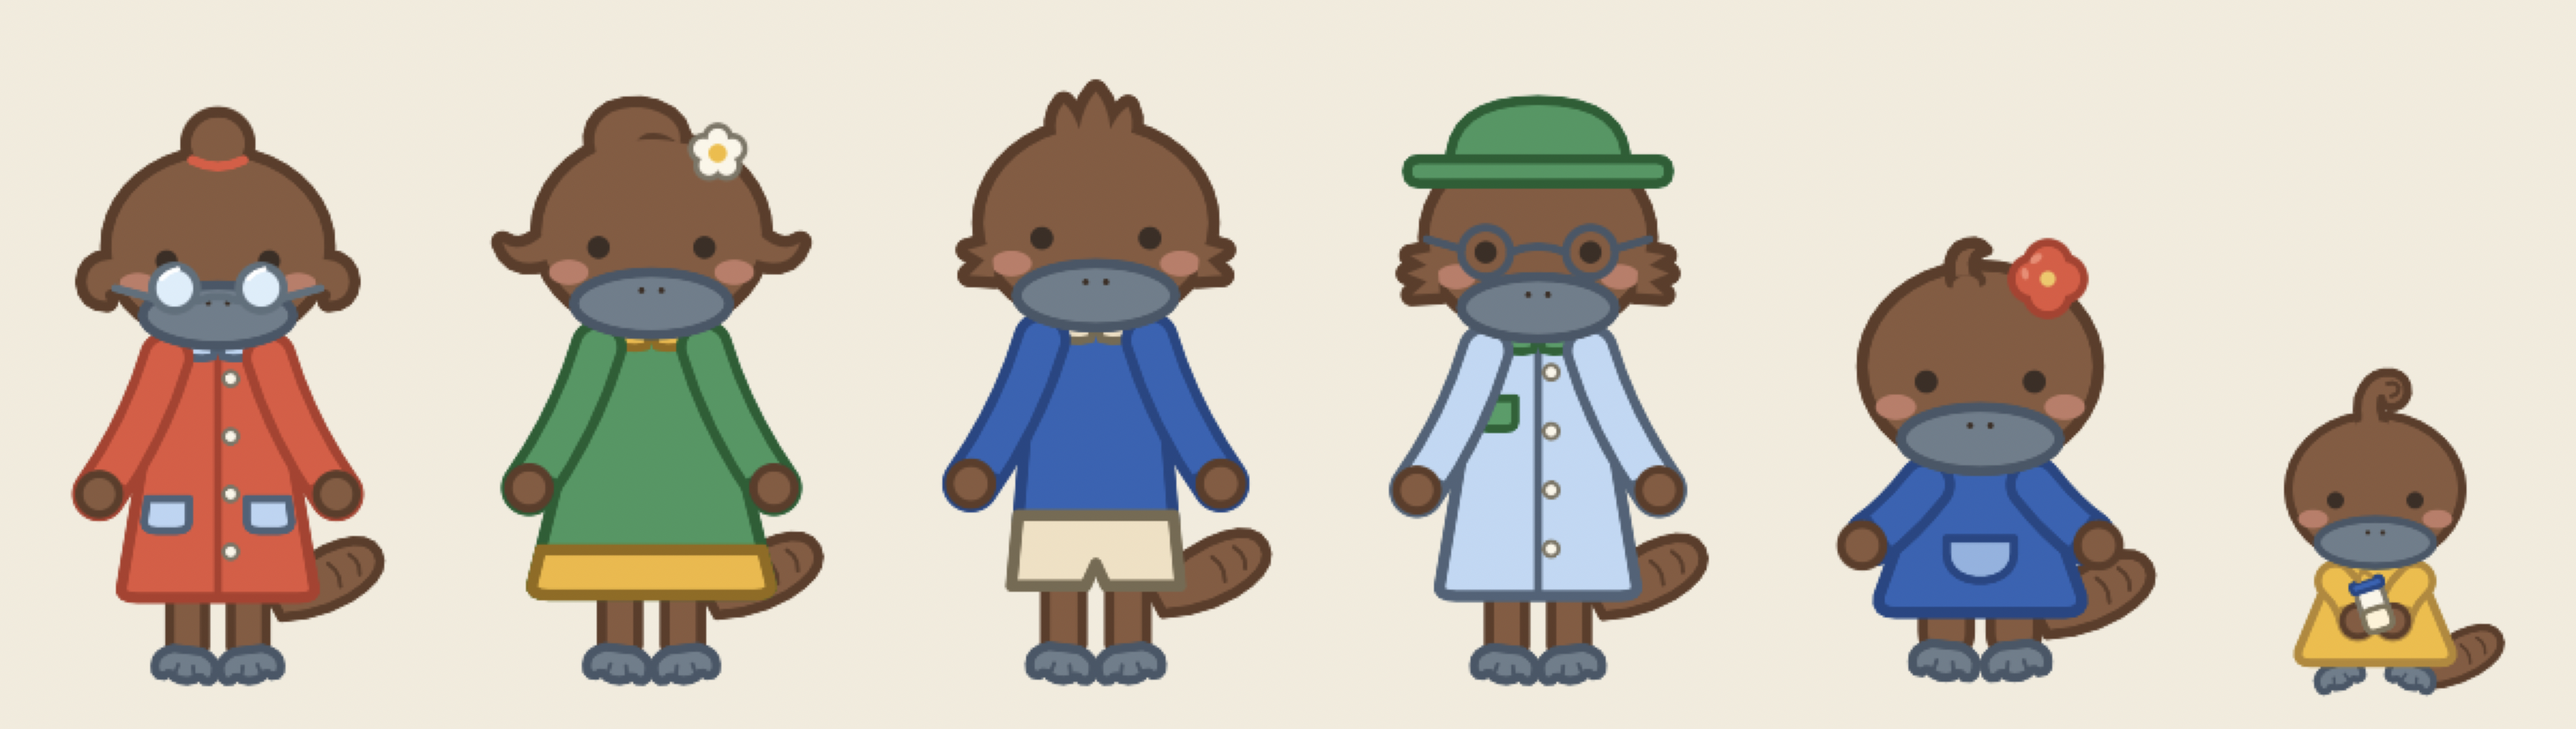
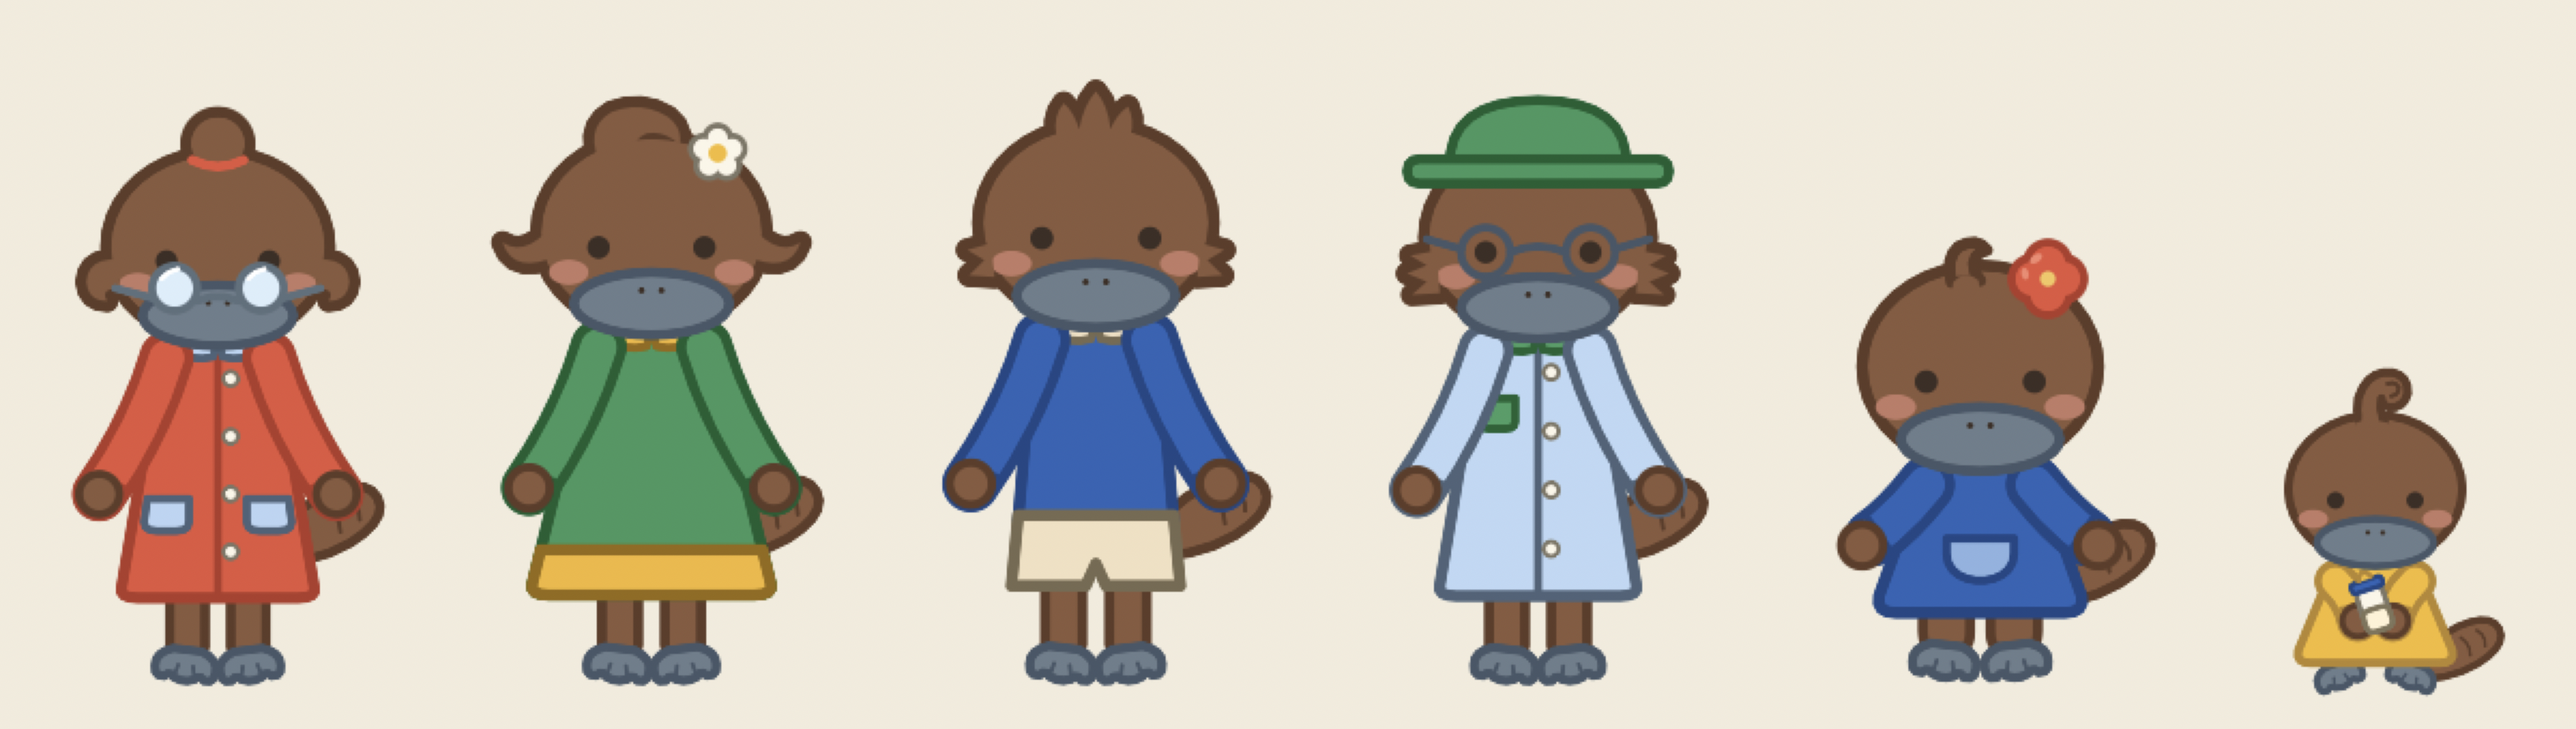
Platypus tails: raised to the hip

diff --git a/app/tools/make_cast_rigs.py b/app/tools/make_cast_rigs.py
@@ -822,12 +822,14 @@ def paddle(bx, by, angle=-28.0, long=66.0):
     ridges = f'M{at(38 * k, -8)} Q{at(42 * k, 0)} {at(38 * k, 8)} M{at(51 * k, -7)} Q{at(55 * k, 0)} {at(51 * k, 7)}'
     return outline, ridges
 
-def regrow_tail(parts, grown):
+def regrow_tail(parts, grown, sitting=False):
     tail = next((p for p in parts if p['id'] == 'tail'), None)
     if not tail: return parts
     oval = tail['shapes'][0]
     # Where the oval's near end was, and further in behind the body; a grown-up's sits higher, at the hip.
-    bx, by = oval['x'] - 28, oval['y'] + 14 - (16 if grown else 0)
+    # Up at the hip, where a tail leaves the body: not down by the knees. A sitting baby's stays near the ground.
+    lift = 50 if grown else 6 if sitting else 18
+    bx, by = oval['x'] - 28, oval['y'] + 14 - lift
     outline, ridges = paddle(bx, by, long=72.0)
     tail['shapes'] = [{'kind': 'path', 'd': outline, 'fill': oval['fill'], 'stroke': oval['stroke'], 'tint': oval.get('tint'), 'width': oval['width']},
                       {'kind': 'path', 'd': ridges, 'stroke': oval.get('tint') or INK, 'width': 2.5, 'cap': 'round'}]
@@ -970,7 +972,7 @@ def build(name, svg, height, about, shade, moves, puggle):
             x, y, r = eye['x'], eye['y'], eye['rx'] + 1.2
             closed.append({'kind': 'path', 'd': f'M{x - r:g} {y - 1:g} Q{x:g} {y + r - 1:g} {x + r:g} {y - 1:g}', 'stroke': INK, 'width': 4.5, 'cap': 'round'})
         parts.append({'id': 'eyes-closed', 'parent': 'head', 'pivot': [120, 110], 'when': 'eyes=closed', 'shapes': closed})
-    parts = regrow_tail(parts, grown)
+    parts = regrow_tail(parts, grown, sitting=name == 'pebble')
     parts = join_to_head(name, parts)
     parts = grow_hair(name, parts)
     parts = dress_for_weather(name, parts, puggle, shade)

diff --git a/docs/baby-tracker-spec.md b/docs/baby-tracker-spec.md
@@ -562,7 +562,7 @@ Two tiers, confirmed by Tom: **line icons with one accent in the app; full-colou
 - **Clothes for the grown-ups (Tom, 2026-11-14, built).** Each of Mum, Dad, Nan and Pop has three outfits, and every outfit is two colours: the garment's own and a trim that contrasts with it, as their weather things do. **Mum:** a dress with a collar and a band at the hem; a top and a skirt; a top tucked into trousers. **Dad:** a shirt and shorts; a striped jumper over trousers; a tee under overalls. **Nan:** her cardigan with a collar and pockets; a dress under an apron; a jumper and a skirt. **Pop:** his cardigan with a collar and a breast pocket; a shirt under a waistcoat; a jumper with diamonds. Each outfit comes in four colour pairs (for example Mum: gum with wattle, waratah with sky, wattle with harbour, harbour with shell), so twelve looks each. Drawn in `dressed` in `app/tools/make_cast_rigs.py`; the pairs are `PAIRS`; rigs are `mum-skirt`, `mum-trousers`, `dad-jumper`, `dad-overalls`, `nan-apron`, `nan-skirt`, `pop-waistcoat`, `pop-jumper`. Which they wear is picked by the day, as for the friends. Trousers are drawn with the body, so they do not swing with the legs in a walk. Sheets: `docs/previews/grown-ups-wardrobe.png`, `cast-wardrobe.png`.
 - **Umbrellas and rain hats (Tom, 2026-11-14, built).** **An umbrella's canopy is the last thing drawn**, in front of hair, ears, spines, bows and hats, at its full shape: it covers their tops and is not flattened to clear them (`umbrella-top`, a child of `umbrella`, whose shaft still passes behind the head). The umbrella has a slim metal shaft and a wooden handle that hooks round below the hand, and the hand is drawn again over the shaft so it is held. **Pop wears the same yellow rain hat as everyone else in a raincoat**; his bucket hat is now its own part (`hat`) and comes off in the rain. **Raincoats and rain hats stay yellow for everyone:** yellow is what says rain at a glance, and it matches Puggle's. Umbrellas stay in each character's own colour. **Nan's hair** is a sheet of options, not built: the bun (now), a set of curls, a soft roll, a wave to one side, a plait round her head. Sheets: `docs/previews/weather-clothes.png`, `nan-hair.png`.
 - **How an umbrella is held (Tom, 2026-11-14, built).** The umbrella stands straight up, at one height and one size for everyone, and **all of it is in front of the character**: shaft, handle and canopy are the last things drawn, over the head, ears, spines, bows and hats. So the shaft does not cross the face, it stands beside it, and the arm changes: with the umbrella up, a second right arm (`arm-right-hold`) is shown, raised with the fist up beside the cheek, so only a short length of shaft shows below the canopy, and the usual arm is hidden. Heads sit at one height in every drawing, so the fist is at the same height against the face for grown-ups and children. The wooden handle is short and hooks round just below the fist. The canopy is full size and centred on the shaft, so it reaches past the character's side; these four rigs carry `sideroom`, and `CastView` draws them on a wider surface without changing where they stand or how much room they take. The canopy has three ribs, fine lines in a darker shade of its own colour from the tip to each point where two scallops meet. They cannot wave with that arm while holding it.
-- **The platypus tail, redrawn (Tom, 2026-11-14, built).** The tail was an oval lying beside the legs with a line down its middle and two across: it read as a leaf, and on the grown-ups it floated clear of the body (Dad's hung beside his knees). It is now a **paddle**: narrow where it leaves the body, broad and round at the end, with two short ridges across and no midline. Its base is tucked in behind the body, so it always grows out of them, and a grown-up's sits at the hip. The same shape for Puggle, Pebble, Mum, Dad, Nan and Pop (`paddle` and `regrow_tail` in `app/tools/make_cast_rigs.py`; Puggle's is in `puggle.rig.json`). Its pivot moved to the new base. Sheet: `docs/previews/platypus-tails.png`.
+- **The platypus tail, redrawn (Tom, 2026-11-14, built).** The tail was an oval lying beside the legs with a line down its middle and two across: it read as a leaf, and on the grown-ups it floated clear of the body (Dad's hung beside his knees). It is now a **paddle**: narrow where it leaves the body, broad and round at the end, with two short ridges across and no midline. Its base is tucked in behind the body, so it always grows out of them. It leaves the body at the hip, level with the hand, not down by the knees; a sitting baby's stays near the ground. The same shape for Puggle, Pebble, Mum, Dad, Nan and Pop (`paddle` and `regrow_tail` in `app/tools/make_cast_rigs.py`; Puggle's is in `puggle.rig.json`). Its pivot moved to the new base. Sheet: `docs/previews/platypus-tails.png`.
 - **Wallpapers and books, second version** (Brand page). Wallpapers: two lock-screen scenes (Morning, Bedtime) with the sky left clear for the clock, plus three repeats: round sticker badges of the cast over a gum-leaf and quatrefoil line pattern, a one-colour line repeat (prints as one screen), and a single-character brick repeat with a soft shadow. Books: covers are the scenes (Puggle at the Beach; Night Night, Puggle; Puggle and the Big Puddle; Puggle Goes to Nan's), title in the scene's sky colour, series name at the foot, Ink spine; spreads are words left, picture right. First versions are on the Archive page.
 - **Animal Crossing wallpaper references (Tom, 2026-11-10).** Ideas taken: sticker heads with a coloured edge over a house-motif line pattern; one-colour line repeats; one character tiled with a soft shadow; a quiet screen with a small scene at the bottom; soft star sprinkles. Not taken: any Nintendo character, the leaf mark, or their colours. Our motifs are the gum leaf and the quatrefoil. A second batch (Mario, Pikmin and Animal Crossing wallpapers) added three more: **tone on tone** (the activity icons as a one-colour pattern with the cast in front), **the parade** (everyone in a row along the bottom, a faint motif grid above, bushes in front) and **night lines** (the activity icons as line drawings on night blue). Lessons: leave room; tone on tone; one motif family (gum leaf, quatrefoil, activity icons); the same drawings work as line or as flat shapes.
 - **Motion studies for Rive** (canvas: Characters page; sources in `design/canvas/gen/motion.py`). Looping SVG sketches, to be rebuilt in the Rive editor. Puggle: **Idle** (breath, blink every 4 s on its own layer, tail drift), **Wave** (greet), **Hooray** (squash, jump, land, quatrefoils pop), **Sleepy** (slow breath, nodding head, floating z), **Walk** (two key poses). State machine "Mood": triggers `greet` and `celebrate` return to Idle; booleans `asleep` and `walking`. Scenes get slow ambient loops (rising sun, twinkling stars, falling rain, falling confetti) with Puggle nested; Reduce Motion shows the still scene. Second pass added anticipation, squash and stretch about the feet, follow-through (tail, clip and head a beat late), idle one-offs (a glance, a tail flick), a falling-asleep transition and a four-key walk (contact, down, passing, up). Parts for import, with named groups: `design/rive/puggle-parts.svg`. The contract between the Rive file and the app (file, artboard, state machine and input names, timings, order of work) is `design/rive/README.md`; the app side is `PuggleView` and `PuggleController`.
